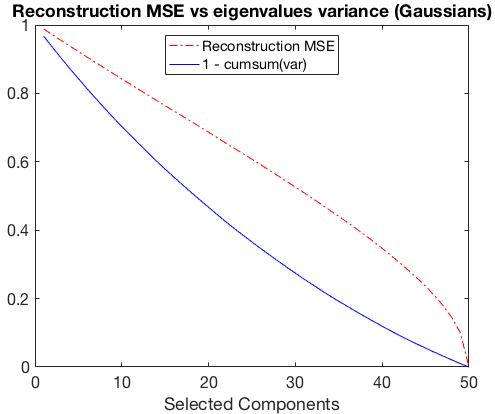
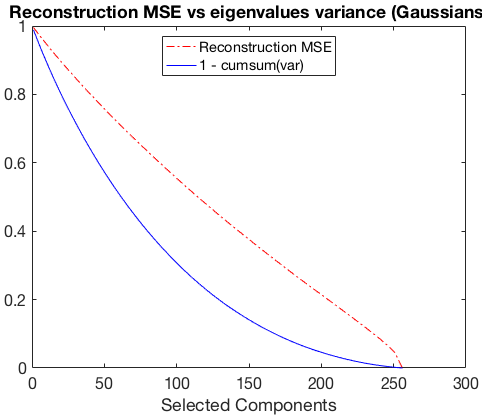
Improved writing on lab 3

diff --git a/report/main.tex b/report/main.tex
@@ -256,21 +256,17 @@
   \subsection{Principal Component Analysis}
   The goal of this section is to understand the meaning and consequences of using
   PCA, applied to the \emph{threes} dataset. \autoref{fig:first_task} summarizes the data:
-  on the right I present the average \emph{three}, on the left the eigenvalues of the whole
-  dataset, scaled over their sum. The first components explain most of the variance:
-  just 12 explain 63\%, and with 50 it adds up to 90\%.  Therefore, using 50 
-  components or more should already deliver a good reconstruction of the data.
-  \autoref{fig:digits_rec} confirms it: with more than 50 components
-  reconstruction  \emph{MSE} is already under \num{0.1}.  On the other hand, 
-  on random data variance spreads more uniformly across the components, as 
-  the green line in \autoref{fig:first_task} shows.
-  It takes more components to have both decent reconstruction error and summed 
-  variance. For example, 12 components only explain 34\% of the variance, and
-  deliver \num{0.8} $MSE$ on the reconstruction. Finally, both digits and random
-  data show a strong correlation between the sum of variance of the last k left-out
-  components and the reconstruction error, displayed in \autoref{fig:regression}. 
-  The shape of the curve suggests that the relationship between them is logarithmic,
-  not linear.
+  on the right I present the average \emph{three}, on the left the eigenvalues, 
+  scaled over their sum. The first components explain most of the variance:
+  just 12 explain 63\%, and with 50 it adds up to 90\%. Therefore, 50 components 
+  should already deliver a good reconstruction of the data. The right panel
+  of \autoref{fig:many_pc} proves it; with 64 and 128 PC the result
+  is almost the original sample. With 256 PC the recovered image is exactly
+  the same, and the \emph{MSE} is 0. With data $X \in {\rm I\!R}^{d \times N}$,
+  being $d$ the input feature space; $V \in {\rm I\!R}^{d \times s}$ the
+  eigenvector matrix, $s$ selected components; and $X_s=V^{t}X$ the data
+  projected on those components. If $s=d$, then $VV^{t}=I$ (full rank orthogonal matrix).
+  Then, $\hat{X} = VX_s = VV^{t}X = X$. 
   
   \begin{figure}[h]
     \centering
@@ -283,10 +279,40 @@
       \label{fig:mean_three}
     \end{subfigure}
     \caption{First task of the exercise: computing the mean three (right), and 
-    plotting the eigenvalues (left). The digits eigenvalues have been compared
+    plotting the first 50 eigenvalues (left). They have been compared
   to those of a random, multivariate Gaussian distribution, in green.}
     \label{fig:first_task}
   \end{figure}
+
+  \begin{figure}[h]
+    \centering
+    \begin{subfigure}[t]{0.49\linewidth}
+      \includegraphics[width=1\linewidth]{./lab3/PCA/mosaics/PC_1_4_small.png}
+      \caption{Few PC. $MSE(rec) > 0.9; variance < 12\%$}
+      \label{fig:few_pc}
+    \end{subfigure}
+    \begin{subfigure}[t]{0.49\linewidth}
+      \includegraphics[width=1\linewidth]{./lab3/PCA/mosaics/PC_16_256_small.png}
+      \caption{Many PC. $MSE(rec) < 0.75; variance > 45\%$}
+      \label{fig:many_pc}
+    \end{subfigure}
+    \caption{Reconstruction of four different samples (columns) with increasing
+      number of components (rows). Top row of each table contains the 
+    original samples. Vertical labels indicate the number of components}
+    \label{fig:threes_pc}
+  \end{figure}
+
+  With Gaussian data 50 components are not enough: they explain only 43\% of the 
+  variance, and deliver a reconstruction error of 0.77 (\autoref{fig:gauss_rec}),
+  whereas in the digits it is already below 0.1 (\autoref{fig:digits_rec}). 
+  It makes sense, because in random data all features carry the same variance, 
+  there is no optimal direction.  Therefore, the eigenvalues sink more gradually,
+  as in \autoref{fig:first_task}.  Anyway, both datasets show a strong 
+  correlation between the sum of variance of the last $k$ left-out components 
+  and the reconstruction $MSE$, displayed in \autoref{fig:regression}. The shape
+  of the curve suggests that the relationship between them is logarithmic, 
+  rather than linear.
+
   \begin{figure}[h]
     \begin{adjustwidth}{-1cm}{-1cm}
     \centering
@@ -296,12 +322,12 @@
       \label{fig:gauss_rec}
     \end{subfigure}
     \begin{subfigure}[t]{0.3\linewidth}
-      \includegraphics[width=1\linewidth, height=4.65cm]{./lab3/PCA/rec_vs_invsum_digits.png}
+      \includegraphics[width=1\linewidth, height=4.7cm]{./lab3/PCA/rec_vs_invsum_digits.png}
       \caption{Digits dataset}
       \label{fig:digits_rec}
     \end{subfigure}
     \begin{subfigure}[t]{0.3\linewidth}
-      \includegraphics[width=1\linewidth, height=4.65cm]{./lab3/PCA/regression_digits.png}
+      \includegraphics[width=1\linewidth, height=4.7cm]{./lab3/PCA/regression_digits.png}
       \caption{Reconstruction MSE linear fit}
       \label{fig:regression}
     \end{subfigure}
@@ -311,21 +337,20 @@
   different datasets. Right figure plots their linear fit.}
     \label{fig:rec_vs_cumsum}
   \end{figure}
+  
 
-  \paragraph{Visual interpretation} 
-  \begin{figure}[h]
-    \centering
-    \begin{subfigure}[t]{0.49\linewidth}
-      \includegraphics[width=1\linewidth]{./lab3/PCA/mosaics/PC_1_4_small.png}
-    \end{subfigure}
-    \begin{subfigure}[t]{0.49\linewidth}
-      \includegraphics[width=1\linewidth]{./lab3/PCA/mosaics/PC_16_256_small.png}
-    \end{subfigure}
-    \caption{Reconstruction of four different samples (columns) with increasing
-      number of components (rows). Top row of each table contains the 
-    original samples. Vertical labels indicate the number of components}
-    \label{fig:threes}
-  \end{figure}
+  \paragraph{Visual interpretation} the reconstruction a sample with few components 
+  if much different from the original image, as the images on \autoref{fig:few_pc} 
+  show. These reconstructions seem more similar to the average \emph{three} of 
+  \autoref{fig:first_task}. The reason is that the first components model the
+  main structure underlying all the data, the \emph{essence} of the \emph{threes}.
+  As more components are added, reconstruction becomes more accurate.  The last 
+  components model the noise, the particularities of each data point. Since
+  most variance lies below 50 PC, any reconstruction with more than those delivers
+  almost the same result, as seen on \autoref{fig:many_pc}
+  
+
+
 
 
 

diff --git a/Session3/PCA/PCA_digits.m b/Session3/PCA/PCA_digits.m
@@ -22,6 +22,7 @@ print_digit(mean_three)
 samples = [100, 101, 102, 200];
 i = 1;
 PC = [1 16 64 128 256];
+% tight subplot: no spaces between plots
 [ha, pos] = tight_subplot(length(PC) + 1,1, 0,[.01 .01],[.05 .01]);
 
 % Original numbers
@@ -84,22 +85,28 @@ bar(eigvals);
 title("Eigenvalues scaled")
 set(gca,'FontSize', 14); 
 
+%% Digits dataset %%
 %% Reconstruction error vs 1 - k_cumsum(var)
 figure;
 digits_error = error_by_pc(threes,1,256,5, true);
 title('Reconstruction MSE vs eigenvalues variance (Digits)')
 set(gca,'FontSize', 16);
-
-%% Random data: rec error vs 1 - k_cumsum(var)
-gauss = randn(50,500);
-g_error = error_by_pc(gauss, 1, 50, 1, true);
-title('Reconstruction MSE vs eigenvalues variance (Gaussians)')
-set(gca,'FontSize', 16);
-
 %% Regression
 % note: second col (y axis) is the MSE error, third the cumsum
 % regression: first target (x axis), later output (y axis)
 plotregression(digits_error(:,3), digits_error(:,2), 'Digits - Rec. Error fit'),
+xlabel("1 - Sum(k-eigvals)"), ylabel("Reconstruction Error")
+set(gca,'FontSize', 16);
+
+%% Random data %%
+%% ec error vs 1 - k_cumsum(var)
+gauss = randn(256,500);
+g_error = error_by_pc(gauss, 1, 256, 5, true);
+title('Reconstruction MSE vs eigenvalues variance (Gaussians)')
+set(gca,'FontSize', 16);
+
+%% Regression
+plotregression(g_error(:,3), g_error(:,2), 'Digits - Rec. Error fit'),
 xlabel("1 - Sum(k-eigvals)"), ylabel("Reconstruction Error")
 set(gca,'FontSize', 16);
 
@@ -119,7 +126,7 @@ title('Reconstruction MSE vs eigenvalues variance (Digits)')
 set(gca,'FontSize', 14);
 %% rec error vs cumsum - gauss
 figure;
-gauss_cumsum = error_by_pc(gauss,2,50,2, false);
+gauss_cumsum = error_by_pc(gauss, 1,256,5, false);
 title('Reconstruction MSE vs eigenvalues variance (Digits)')
 set(gca,'FontSize', 14);
 %%%%%%%%%%%%%%%%%%%%%%%%%%%%%%%%%%
@@ -129,9 +136,68 @@ set(gca,'FontSize', 14);
 % is the second one (component, not sum). Two images
 % * Scholkopf: plot the component themself
 % * Componentwise plot from EPFL package
+%% Eigvec plot
+[Et, reducedX, eigvals] = mypca(threes, 256, false);
+ %Et = pca(threes'); Et = Et';
+comp = 1;
+for i=1:6
+    subplot(2, 3, i)
+    print_digit(Et' * 3 , i)  % * 3 just scales
+end
+%first_com = Et(comp,:) * (threes - mean(threes, 2));
+%vals = [0.3 0.4 0.5 0.6 0.7 0.8 0.9 1];
+%quant = quantile(first_com, vals);
+
+%% Extract indexes of threes corresponding to PC quantiles
+% values on those PC
+comp1 = 1; comp2 = 5;
+first_com = Et(comp1,:) * (threes - mean(threes,  2));
+second_com = Et(comp2,:) * (threes - mean(threes, 2));
+vals = [0.2 0.4 0.6 0.8 1];
+% quantiles
+first_quant = quantile(first_com, vals);
+second_quant = quantile(second_com, vals);
+first_col = first_com';
+second_col = second_com';
+indexes = zeros(length(vals)); % N*N
+r = 0;
+% finding the best matches
+for q1=first_quant
+    r = r + 1;
+    c = 0;
+    for q2=second_quant
+        c = c + 1;
+        % closest three (euclidean dist) to the quantile
+        dists = sqrt((first_col - q1).^2 + (second_col - q2).^2);
+        [val, index] = min(dists);
+        indexes(r, c) = index;
+    end
+end
+
+%% Plotting those threes
+[ha, pos] = tight_subplot(length(vals), length(vals), 0,[.05 .01],[.05 .01]);
+count = 0;
+for i = 1:length(vals)
+    for j = 1:length(vals)
+        count = count + 1;
+        axes(ha(count));
+        %subplot(length(vals), length(vals), count)
+        print_digit(threes, indexes(i, j))
+        set(gca,'XTick',[], 'Ytick', [], 'FontSize', 16); % remove X and Y labels
+        if j == 1 % labels on the first column
+            ylabel([num2str(vals(i))])% ' PC' num2str(comp1)])
+        end 
+        if i == 5 % labels on the last row
+            xlabel([num2str(vals(j))])% ' PC' num2str(comp1)])
+        end
+    end
+end
+%set(ha(1:20), 'Xtick', [])
 
 
-%%
+%%%%%%%%%%%%%%%
+%% Functions %%
+%%%%%%%%%%%%%%%
 function [] = print_digit(dgt, i)
     % cols as observations
     colormap('bone')

diff --git a/Session3/PCA/mypca.m b/Session3/PCA/mypca.m
@@ -1,8 +1,6 @@
 function [Et, reducedX, eigvals] = mypca(data, q, scale)   % q: desired dimensions
     if nargin < 3
         scale = true;
-    else
-        scale = false;
     end
     x = data';                  % observation as rows (expected as columns)
     [eigvec, eigvals] = eigs(cov(x), q);  %cov centers matrix automatically
